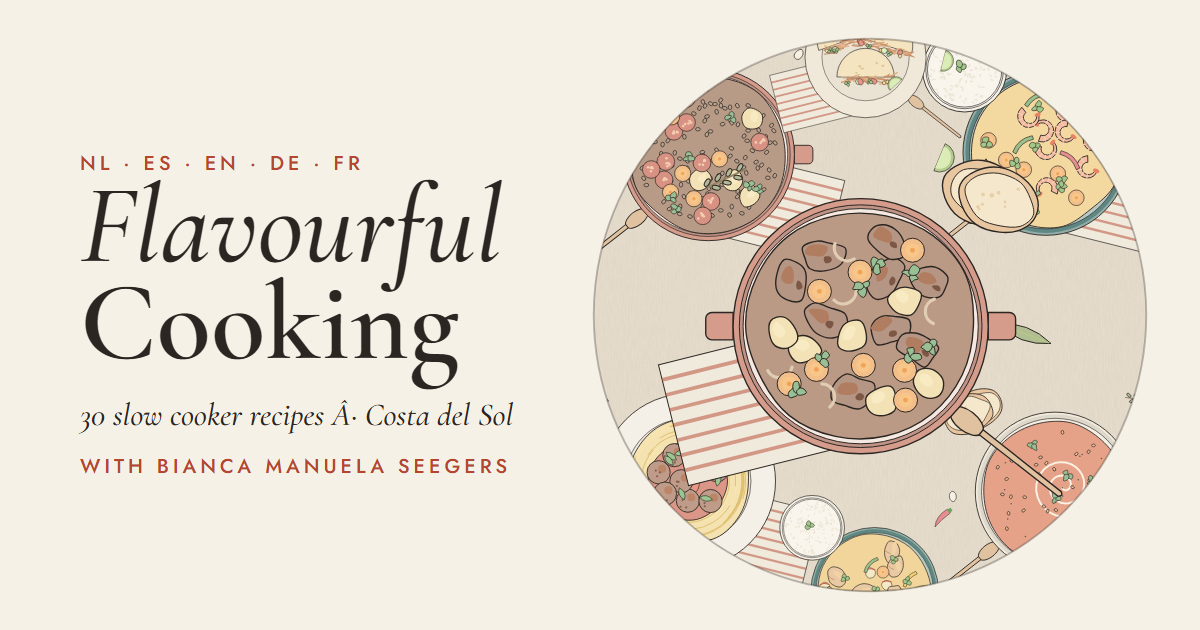
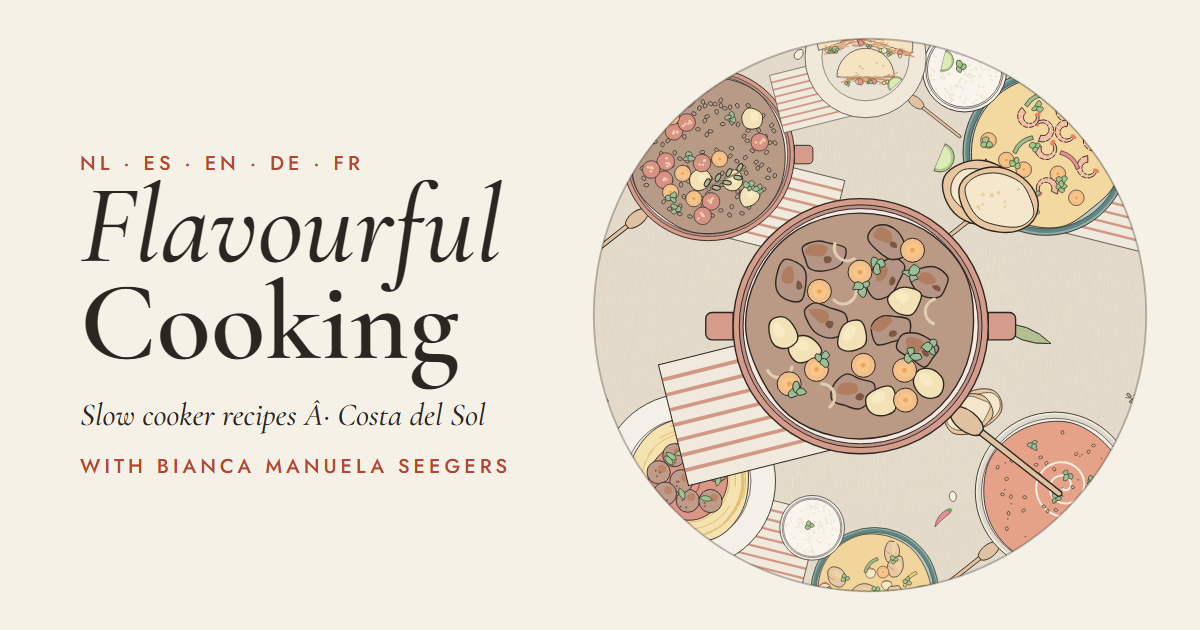
Geen vaste receptaantallen meer in teksten en deelafbeeldingen
De teller op de receptenpagina telt nu het echte aantal.

Changed region(s): [[0.0617, 0.6333, 0.4317, 0.6937]]

diff --git a/src/i18n.js b/src/i18n.js
@@ -13,10 +13,10 @@ const PATHS = {
 
 const UI = {
   nl: {
-    brand: ['Smaakvol', 'Koken'], brandSub: '30 slowcookerrecepten · Costa del Sol', langName: 'Nederlands', htmlLang: 'nl', locale: 'nl_NL', skip: 'Naar de inhoud',
+    brand: ['Smaakvol', 'Koken'], brandSub: 'Slowcookerrecepten · Costa del Sol', langName: 'Nederlands', htmlLang: 'nl', locale: 'nl_NL', skip: 'Naar de inhoud',
     nav: { home: 'Home', recipes: 'Recepten', market: 'Supermarktgids', basics: 'Slowcooker-basics' },
     by: 'met Bianca Manuela Seegers',
-    cta: 'Bekijk de 30 recepten', ctaMarket: 'Naar de supermarktgids',
+    cta: 'Bekijk alle recepten', ctaMarket: 'Naar de supermarktgids',
     persons: '4 personen', perPerson: 'p.p.', approx: 'ca.',
     prep: 'voorbereiding', freeze: 'Invriezen', vega: 'Vega',
     ingredients: 'Ingrediënten', serve: 'Erbij', method: 'Bereiding', tip: 'Tip van de chef', kids: 'Voor de kids',
@@ -29,7 +29,7 @@ const UI = {
     marketTitle: 'Boodschappen doen aan de Costa del Sol', marketLead: 'Waar vind je wat? Per ingrediënt de Spaanse naam, de afdeling en de supermarkt waar je het het makkelijkst vindt.',
     chains: 'De supermarkten', goodFor: 'Goed voor', expatTip: 'Tip', searchIng: 'Zoek een ingrediënt…',
     assortment: 'Het assortiment verschilt per filiaal en seizoen. Zie de winkels als richting, niet als garantie.',
-    basicsTitle: 'Slowcooker-basics', foreword: 'Voorwoord', footer: '30 slowcookerrecepten voor gezinnen in Spanje', langLabel: 'Taal',
+    basicsTitle: 'Slowcooker-basics', foreword: 'Voorwoord', footer: 'Slowcookerrecepten voor gezinnen in Spanje', langLabel: 'Taal',
     notFound: 'Deze pagina bestaat niet (meer).', notFoundCta: 'Terug naar de recepten', usedIn: 'Gebruikt in',
     f: { cuisine: 'Keuken', protein: 'Hoofdingrediënt', side: 'Erbij', price: 'Max. prijs p.p.', hours: 'Max. tijd in de slowcooker', spice: 'Pittigheid', more: 'Meer filters', reset: 'Wis filters', sort: 'Sorteer', freezeOnly: 'Invriesbaar', any: 'Alle', hoursUnit: 'uur', noLimit: 'geen limiet',
       sorts: { n: 'Volgorde boek', price: 'Goedkoopst', time: 'Snelst klaar', spice: 'Mildst' } },
@@ -42,10 +42,10 @@ const UI = {
     favAdd: 'Bewaar als favoriet', favRemove: 'Favoriet', onlyFavs: 'Mijn favorieten', noFavs: 'Je hebt nog geen favorieten. Tik op het hartje bij een recept om het te bewaren.',
   },
   es: {
-    brand: ['Cocina', 'con Sabor'], brandSub: '30 recetas de olla lenta · Costa del Sol', langName: 'Español', htmlLang: 'es', locale: 'es_ES', skip: 'Saltar al contenido',
+    brand: ['Cocina', 'con Sabor'], brandSub: 'Recetas de olla lenta · Costa del Sol', langName: 'Español', htmlLang: 'es', locale: 'es_ES', skip: 'Saltar al contenido',
     nav: { home: 'Inicio', recipes: 'Recetas', market: 'Guía del súper', basics: 'Consejos olla lenta' },
     by: 'con Bianca Manuela Seegers',
-    cta: 'Ver las 30 recetas', ctaMarket: 'Ir a la guía del súper',
+    cta: 'Ver todas las recetas', ctaMarket: 'Ir a la guía del súper',
     persons: '4 personas', perPerson: 'p. p.', approx: 'aprox.',
     prep: 'preparación', freeze: 'Congelable', vega: 'Vegetariano',
     ingredients: 'Ingredientes', serve: 'Para acompañar', method: 'Preparación', tip: 'Consejo del chef', kids: 'Para los peques',
@@ -58,7 +58,7 @@ const UI = {
     marketTitle: 'Hacer la compra en la Costa del Sol', marketLead: '¿Dónde encuentras cada cosa? Para cada ingrediente: la sección y el supermercado donde es más fácil encontrarlo.',
     chains: 'Los supermercados', goodFor: 'Ideal para', expatTip: 'Consejo', searchIng: 'Busca un ingrediente…',
     assortment: 'El surtido varía según la tienda y la temporada. Tómalo como orientación, no como garantía.',
-    basicsTitle: 'Consejos para la olla lenta', foreword: 'Prólogo', footer: '30 recetas familiares de olla lenta en España', langLabel: 'Idioma',
+    basicsTitle: 'Consejos para la olla lenta', foreword: 'Prólogo', footer: 'Recetas familiares de olla lenta en España', langLabel: 'Idioma',
     notFound: 'Esta página no existe.', notFoundCta: 'Volver a las recetas', usedIn: 'Se usa en',
     f: { cuisine: 'Cocina', protein: 'Ingrediente principal', side: 'Acompañamiento', price: 'Precio máx. p. p.', hours: 'Tiempo máx. en la olla', spice: 'Picante', more: 'Más filtros', reset: 'Quitar filtros', sort: 'Ordenar', freezeOnly: 'Congelable', any: 'Todos', hoursUnit: 'h', noLimit: 'sin límite',
       sorts: { n: 'Orden del libro', price: 'Más barato', time: 'Más rápido', spice: 'Más suave' } },
@@ -71,10 +71,10 @@ const UI = {
     favAdd: 'Guardar en favoritos', favRemove: 'En favoritos', onlyFavs: 'Mis favoritos', noFavs: 'Aún no tienes favoritos. Toca el corazón de una receta para guardarla.',
   },
   en: {
-    brand: ['Flavourful', 'Cooking'], brandSub: '30 slow cooker recipes · Costa del Sol', langName: 'English', htmlLang: 'en', locale: 'en_GB', skip: 'Skip to content',
+    brand: ['Flavourful', 'Cooking'], brandSub: 'Slow cooker recipes · Costa del Sol', langName: 'English', htmlLang: 'en', locale: 'en_GB', skip: 'Skip to content',
     nav: { home: 'Home', recipes: 'Recipes', market: 'Supermarket guide', basics: 'Slow cooker basics' },
     by: 'with Bianca Manuela Seegers',
-    cta: 'See all 30 recipes', ctaMarket: 'Go to the supermarket guide',
+    cta: 'See all recipes', ctaMarket: 'Go to the supermarket guide',
     persons: 'serves 4', perPerson: 'pp', approx: 'approx.',
     prep: 'prep', freeze: 'Freezes well', vega: 'Vegetarian',
     ingredients: 'Ingredients', serve: 'To serve', method: 'Method', tip: "Chef's tip", kids: 'For the kids',
@@ -87,7 +87,7 @@ const UI = {
     marketTitle: 'Grocery shopping on the Costa del Sol', marketLead: 'Where do you find what? For every ingredient: the Spanish name, the aisle and the supermarket where it is easiest to find.',
     chains: 'The supermarkets', goodFor: 'Good for', expatTip: 'Tip', searchIng: 'Search an ingredient…',
     assortment: 'Ranges differ per branch and season, so treat the stores as a guide rather than a guarantee.',
-    basicsTitle: 'Slow cooker basics', foreword: 'Foreword', footer: '30 family slow cooker recipes in Spain', langLabel: 'Language',
+    basicsTitle: 'Slow cooker basics', foreword: 'Foreword', footer: 'Family slow cooker recipes in Spain', langLabel: 'Language',
     notFound: 'This page does not exist.', notFoundCta: 'Back to the recipes', usedIn: 'Used in',
     f: { cuisine: 'Cuisine', protein: 'Main ingredient', side: 'Served with', price: 'Max. price pp', hours: 'Max. time in the slow cooker', spice: 'Heat', more: 'More filters', reset: 'Clear filters', sort: 'Sort', freezeOnly: 'Freezable', any: 'Any', hoursUnit: 'hrs', noLimit: 'no limit',
       sorts: { n: 'Book order', price: 'Cheapest', time: 'Quickest', spice: 'Mildest' } },
@@ -100,10 +100,10 @@ const UI = {
     favAdd: 'Save as favourite', favRemove: 'Saved', onlyFavs: 'My favourites', noFavs: 'No favourites yet. Tap the heart on a recipe to save it.',
   },
   de: {
-    brand: ['Genussvoll', 'Kochen'], brandSub: '30 Slowcooker-Rezepte · Costa del Sol', langName: 'Deutsch', htmlLang: 'de', locale: 'de_DE', skip: 'Zum Inhalt',
+    brand: ['Genussvoll', 'Kochen'], brandSub: 'Slowcooker-Rezepte · Costa del Sol', langName: 'Deutsch', htmlLang: 'de', locale: 'de_DE', skip: 'Zum Inhalt',
     nav: { home: 'Start', recipes: 'Rezepte', market: 'Supermarkt-Guide', basics: 'Slowcooker-Grundlagen' },
     by: 'mit Bianca Manuela Seegers',
-    cta: 'Alle 30 Rezepte ansehen', ctaMarket: 'Zum Supermarkt-Guide',
+    cta: 'Alle Rezepte ansehen', ctaMarket: 'Zum Supermarkt-Guide',
     persons: '4 Personen', perPerson: 'p. P.', approx: 'ca.',
     prep: 'Vorbereitung', freeze: 'Einfrierbar', vega: 'Vegetarisch',
     ingredients: 'Zutaten', serve: 'Dazu', method: 'Zubereitung', tip: 'Tipp vom Koch', kids: 'Für die Kinder',
@@ -116,7 +116,7 @@ const UI = {
     marketTitle: 'Einkaufen an der Costa del Sol', marketLead: 'Wo findest du was? Für jede Zutat: der spanische Name, die Abteilung und der Supermarkt, in dem du sie am leichtesten findest.',
     chains: 'Die Supermärkte', goodFor: 'Gut für', expatTip: 'Tipp', searchIng: 'Zutat suchen…',
     assortment: 'Das Sortiment unterscheidet sich je nach Filiale und Saison. Sieh die Läden als Orientierung, nicht als Garantie.',
-    basicsTitle: 'Slowcooker-Grundlagen', foreword: 'Vorwort', footer: '30 Slowcooker-Familienrezepte in Spanien', langLabel: 'Sprache',
+    basicsTitle: 'Slowcooker-Grundlagen', foreword: 'Vorwort', footer: 'Slowcooker-Familienrezepte in Spanien', langLabel: 'Sprache',
     notFound: 'Diese Seite gibt es nicht.', notFoundCta: 'Zurück zu den Rezepten', usedIn: 'Verwendet in',
     f: { cuisine: 'Küche', protein: 'Hauptzutat', side: 'Beilage', price: 'Max. Preis p. P.', hours: 'Max. Zeit im Slowcooker', spice: 'Schärfe', more: 'Mehr Filter', reset: 'Filter zurücksetzen', sort: 'Sortieren', freezeOnly: 'Einfrierbar', any: 'Alle', hoursUnit: 'Std.', noLimit: 'ohne Limit',
       sorts: { n: 'Reihenfolge im Buch', price: 'Günstigste', time: 'Schnellste', spice: 'Mildeste' } },
@@ -129,10 +129,10 @@ const UI = {
     favAdd: 'Als Favorit speichern', favRemove: 'Favorit', onlyFavs: 'Meine Favoriten', noFavs: 'Noch keine Favoriten. Tippe bei einem Rezept auf das Herz, um es zu speichern.',
   },
   fr: {
-    brand: ['Cuisine', 'Savoureuse'], brandSub: '30 recettes à la mijoteuse · Costa del Sol', langName: 'Français', htmlLang: 'fr', locale: 'fr_FR', skip: 'Aller au contenu',
+    brand: ['Cuisine', 'Savoureuse'], brandSub: 'Recettes à la mijoteuse · Costa del Sol', langName: 'Français', htmlLang: 'fr', locale: 'fr_FR', skip: 'Aller au contenu',
     nav: { home: 'Accueil', recipes: 'Recettes', market: 'Guide du supermarché', basics: 'Bases de la mijoteuse' },
     by: 'avec Bianca Manuela Seegers',
-    cta: 'Voir les 30 recettes', ctaMarket: 'Vers le guide du supermarché',
+    cta: 'Voir toutes les recettes', ctaMarket: 'Vers le guide du supermarché',
     persons: '4 personnes', perPerson: '/pers.', approx: 'env.',
     prep: 'préparation', freeze: 'Se congèle', vega: 'Végétarien',
     ingredients: 'Ingrédients', serve: 'En accompagnement', method: 'Préparation', tip: 'Le conseil du chef', kids: 'Pour les enfants',
@@ -145,7 +145,7 @@ const UI = {
     marketTitle: 'Faire ses courses sur la Costa del Sol', marketLead: 'Où trouver quoi ? Pour chaque ingrédient : le nom espagnol, le rayon et le supermarché où il est le plus facile à trouver.',
     chains: 'Les supermarchés', goodFor: 'Idéal pour', expatTip: 'Astuce', searchIng: 'Cherche un ingrédient…',
     assortment: "L'assortiment varie selon le magasin et la saison. Prends ces enseignes comme repère, pas comme garantie.",
-    basicsTitle: 'Bases de la mijoteuse', foreword: 'Avant-propos', footer: '30 recettes familiales à la mijoteuse en Espagne', langLabel: 'Langue',
+    basicsTitle: 'Bases de la mijoteuse', foreword: 'Avant-propos', footer: 'Recettes familiales à la mijoteuse en Espagne', langLabel: 'Langue',
     notFound: "Cette page n'existe pas.", notFoundCta: 'Retour aux recettes', usedIn: 'Utilisé dans',
     f: { cuisine: 'Cuisine', protein: 'Ingrédient principal', side: 'Accompagnement', price: 'Prix max. /pers.', hours: 'Temps max. dans la mijoteuse', spice: 'Piquant', more: 'Plus de filtres', reset: 'Effacer les filtres', sort: 'Trier', freezeOnly: 'Se congèle', any: 'Tous', hoursUnit: 'h', noLimit: 'sans limite',
       sorts: { n: 'Ordre du livre', price: 'Moins cher', time: 'Plus rapide', spice: 'Plus doux' } },

diff --git a/src/build.js b/src/build.js
@@ -291,7 +291,7 @@ function recipesPage(L) {
       </label>
     </div>
     </details>
-    <div class="f-foot"><p class="count" id="count" data-tpl="${esc(ui.count('#'))}" aria-live="polite">${ui.count(30)}</p><button type="button" class="linkbtn" id="reset">${ui.f.reset}</button></div>
+    <div class="f-foot"><p class="count" id="count" data-tpl="${esc(ui.count('#'))}" aria-live="polite">${ui.count(D[L].list.length)}</p><button type="button" class="linkbtn" id="reset">${ui.f.reset}</button></div>
   </form>
   <ul class="cards" id="cards">${D[L].list.map(r => card(L, r)).join('')}</ul>
   <p class="none" id="none" hidden data-none="${esc(ui.none)}" data-nofavs="${esc(ui.noFavs)}">${ui.none}</p>

diff --git a/src/data/new/_translate_spec.md b/src/data/new/_translate_spec.md
@@ -1,0 +1,37 @@
+# Vertaalopdracht – recepten en hoofdstukken
+
+**Bron (Nederlands):** `F:\Koken\src\data\recipes.json` (122 recepten, ids 1–122) en `F:\Koken\src\data\i18n-source.nl.json`.
+**Doel:** `F:\Koken\src\data\recipes.<taal>.json` en `F:\Koken\src\data\i18n-source.<taal>.json` (bestaande bestanden, die je bijwerkt).
+
+## Recepten
+Het bestaande doelbestand bevat al vertalingen van de ids 1–30. Lever het VOLLEDIGE bestand met alle 122 recepten op, in de volgorde van ids:
+1. **Ids 1–30:** houd de bestaande vertaling, maar:
+   - neem de stappen over volgens de NIEUWE Nederlandse stappen: waar daar `Optioneel: ` voor staat of ` (optioneel)` achter een ingrediënt, doe hetzelfde in de doeltaal (bijv. EN `Optional: ` / ` (optional)`, ES `Opcional: ` / ` (opcional)`, DE `Optional: ` / ` (optional)`, FR `Facultatif : ` / ` (facultatif)`);
+   - vertaal bij ingrediënten en serve-regels de velden `swap` en `saves` als die in het Nederlands bestaan (zelfde index). `saves` blijft een bedrag, bijvoorbeeld EN `approx. €3`, ES `aprox. 3 €`, DE `ca. 3 €` of FR `env. 3 €`.
+2. **Ids 31–122:** vertaal volledig, zoals bij de bestaande vertalingen:
+   - `title`, `chapter` (zie de namen hieronder), `prep`, `low`, `high` (null blijft null), `intro`, `tip`, `kids` en `steps`
+   - in `ingredients` en `serve` de velden `q` (eenheden vertalen, getallen gelijk), `item`, `swap` en `saves`
+   - voeg `slug` toe: kebab-case ASCII van de vertaalde titel, uniek binnen het bestand
+3. Neem ongewijzigd over: `id`, `guid`, `price`, `price_basic`, `spice`, `vega`, `freeze`, `cuisine`, `protein`, `side`, `kind` en **het veld `es` (Spaanse supermarktnaam)**. Het veld `role` mag je weglaten; de site haalt dat uit het Nederlands.
+4. Behoud LOW/HIGH, 75 °C en de "–" in bereiken. Gebruik de toon en de woordkeus van de bestaande vertalingen in hetzelfde bestand.
+
+## Hoofdstukken (i18n-source.<taal>.json)
+Voeg aan `chapters` de 3 nieuwe namen toe, in deze volgorde: Vegetarisch, Zoet uit de slowcooker, Meer uit de slowcooker. Voeg ze ook toe als sleutel in `content.chapters`, met de vertaalde `tagline` en `intro` uit het Nederlandse bestand. Laat de rest van het bestand ongewijzigd.
+
+| Taal | Vegetarisch | Zoet uit de slowcooker | Meer uit de slowcooker |
+|---|---|---|---|
+| es | Vegetariano | Dulces de olla lenta | Más de la olla lenta |
+| en | Vegetarian | Sweet slow cooker treats | More from the slow cooker |
+| de | Vegetarisch | Süßes aus dem Slowcooker | Mehr aus dem Slowcooker |
+| fr | Végétarien | Douceurs à la mijoteuse | Plus de la mijoteuse |
+
+## Werkwijze en validatie
+- Werk in stukken van ongeveer 20 recepten en schrijf tussendoor weg, zodat er niets verloren gaat bij een onderbreking. Een script dat per stuk aanvult is prima.
+- Valideer met python:
+  - `json.load`
+  - 122 ids in volgorde
+  - de `es`-velden gelijk aan het Nederlands
+  - de slugs uniek
+  - het aantal stappen en ingrediënten gelijk aan het Nederlands
+  - de ids 1–30 hebben hun oude titels nog
+  - in `i18n-source` 8 hoofdstukken, met de sleutels van `content.chapters` gelijk aan `chapters`
